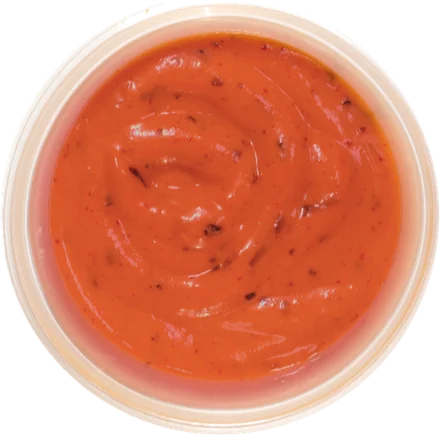
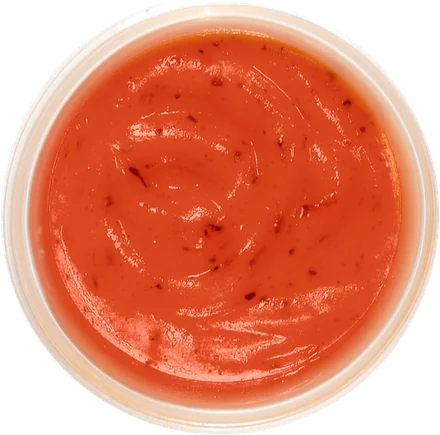
borne: sauces lisses, et l'aigre douce en gelee translucide
Retour du gerant : « rends-les lisses par exemple ketchup mayo bbq,
aigre douce c'est un peu transparent, andalouse c'est parfait, sois
realiste ».

Ketchup, BBQ, mayonnaise et sriracha sont lisses — la sriracha aussi,
qui est lisse en vrai meme si elle n'etait pas citee. Un MedianFilter(9)
ne suffisait pas : les eclats d'herbe du Samourai font 15 a 20 px et
passaient au travers. On reduit l'image d'un facteur 3 avant le median,
ce qui efface le grain en gardant les grands plis et les reflets.

L'aigre douce est le seul cas a part : elle est RECONSTRUITE, pas
recoloree. Baisser son opacite l'aurait delavee sur le fond creme, et la
recolorer gardait les plis cremeux qui disent « sauce epaisse ». Surface
aplatie, absorption (creux plus sature et plus rouge, crete plus claire),
reflets reinjectes, flocons de piment repris apres lissage.
⚠ Ca reste une imitation : une photo de la vraie aigre douce ferait
mieux.

Andalouse, spicy mayo et Sekai inchangees. Le Samourai reprend la photo
brute du gerant, la boucle l'ecrasait.

Verifie en capture a 800x1280.

Claude-Session: https://claude.ai/code/session_013hnANrWzff71jJyzrU69Fg

diff --git a/borne/CLAUDE.md b/borne/CLAUDE.md
@@ -113,8 +113,15 @@ Le script est dans le scratchpad (`sauces/recolore.py`), la recette ici :
 1. Travailler en **HSV**, pas en RGB : `H ← teinte cible`, `S` et `V` recalés
    sur la médiane du cœur. La texture vit dans `V`, elle survit intacte.
 2. Garder une part de l'écart de teinte (`eclats`) pour que les éclats d'herbe
-   et de piment restent visibles. À 0 pour le ketchup et la mayo, qui sont
-   lisses — avec, en plus, un filtre médian pour effacer le grain du Samouraï.
+   et de piment restent visibles. À 0 pour le ketchup, le BBQ, la mayo et la
+   sriracha, qui sont **lisses** (gérant, 22/10/2026 : *« rends-les lisses par
+   exemple ketchup mayo bbq »*, et *« andalouse c'est parfait »* — l'andalouse,
+   les deux mayos et le Samouraï gardent donc leurs éclats).
+   🔴 **Un `MedianFilter(9)` ne suffit PAS** : les éclats d'herbe font 15 à
+   20 px sur cette photo, ils passent au travers et le ketchup reste grumeleux.
+   Réduire l'image d'un facteur 3 avant le médian — rayon bien plus large, et
+   assez rapide. Le médian efface le grain mais **garde les grands plis et les
+   reflets** : une sauce parfaitement plate serait fausse.
 3. 🔴 **Le masque ne s'arrête PAS au bord de la sauce.** De r=0,80 à r=0,92 la
    paroi du ramequin renvoie un **reflet** de la sauce. Masque coupé trop tôt,
    ce reflet reste orange et chaque sauce porte un liseré Samouraï.
@@ -125,8 +132,26 @@ Le script est dans le scratchpad (`sauces/recolore.py`), la recette ici :
    9 PNG faisaient 3 Mo, les 9 WebP font 210 Ko. `PHOTOS_OPTIONS` portant
    l'extension complète, aucun code ne change.
 
+6. 🔴 **Une sauce TRANSLUCIDE se reconstruit, elle ne se recolore pas.**
+   L'aigre douce (*« c'est un peu transparent »*) est le seul cas à part des
+   neuf. Baisser l'opacité la rendrait délavée sur le fond crème, pas
+   transparente ; et la recolorer ne suffit pas, parce que les plis crémeux du
+   Samouraï disent « sauce épaisse » quelle que soit la couleur. Il faut les
+   quatre : surface presque plane (le `V` passé au flou gaussien, 45 %
+   d'amplitude), **absorption** (le creux plus saturé et plus rouge, la crête
+   plus claire — c'est ce gradient qui dit « on voit à travers »), reflets
+   spéculaires réinjectés et désaturés, flocons de piment repris sur la photo
+   d'origine *après* le lissage.
+   ⚠ Ça reste une imitation : **une photo de la vraie aigre douce ferait mieux
+   que tout ce bloc.** C'est la seule des neuf dont on fabrique la matière.
+
 ⚠ **Les teintes sont approchées, pas mesurées.** Le gérant n'a tranché que la
-Sekai (« une spicy mayo un peu plus foncée »). À lui faire valider au comptoir.
+Sekai (« une spicy mayo un peu plus foncée ») et validé l'andalouse. À lui faire
+valider le reste au comptoir.
+
+🔴 **Le Samouraï reste la PHOTO BRUTE**, jamais sa version recolorée : c'est la
+seule des neuf dont on a le vrai cliché, et elle sert de témoin aux huit autres.
+Le script la restaure après la boucle — ne pas supprimer cette ligne.
 
 🔴 **Les six panures, ou aucune.** `groupeIllustre()` l'impose : un groupe à
 moitié illustré mettrait en avant l'option payante au seul motif qu'on en a la
